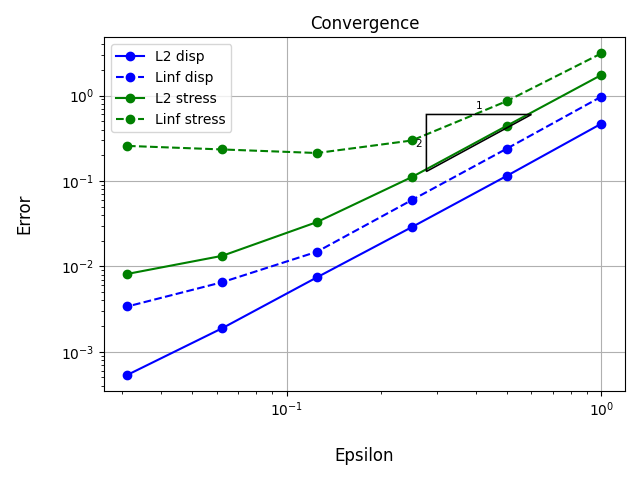
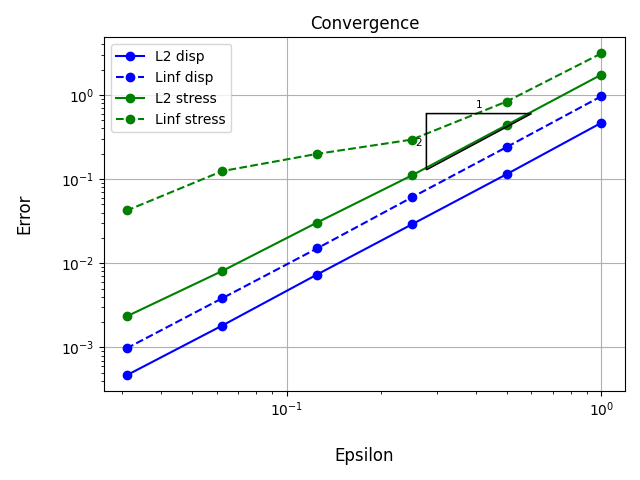
fixed bug in calculation of cross-term for second-order dirichlet

diff --git a/xlb/experimental/thermo_mechanical/solid_stepper.py b/xlb/experimental/thermo_mechanical/solid_stepper.py
@@ -45,11 +45,6 @@ class SolidsStepper(Stepper):
         L = params.L
         dt = params.dt
 
-        self.K = K
-        self.mu = mu
-        self.theta = theta
-        self.T = T
-        self.L = L
 
         # ----------calculate omega------------
         omega_11 = 1.0 / (mu / theta + 0.5)
@@ -104,10 +99,12 @@ class SolidsStepper(Stepper):
 
     @Operator.register_backend(ComputeBackend.WARP)
     def warp_implementation(self, f_1, f_2):  # f_1 carries current population, f_2 carries the previous post_collision population
+        params = SimulationParams()
+        theta = params.theta
         wp.launch(utils.copy_populations, inputs=[f_2, self.temp_f, self.velocity_set.q], dim=f_1.shape[1:])
         self.macroscopic(f_1)  # update bared moments (needed for BC)
         # Collision Stage
-        wp.launch(self.collision.warp_kernel, inputs=[f_1, self.force, self.omega, self.theta], dim=f_1.shape[1:])
+        wp.launch(self.collision.warp_kernel, inputs=[f_1, self.force, self.omega, theta], dim=f_1.shape[1:])
         # Streaming Stage
         wp.launch(self.stream.warp_kernel, inputs=[f_1, f_2], dim=f_1.shape[1:])
         # Apply BC

diff --git a/xlb/experimental/thermo_mechanical/solid_bounceback.py b/xlb/experimental/thermo_mechanical/solid_bounceback.py
@@ -56,14 +56,14 @@ class SolidsDirichlet(Operator):
             m_11 = m_local[2]
             dx_u_x = -0.25 * (m_s / K + m_d / mu)
             dy_u_y = -0.25 * (m_s / K - m_d / mu)
-            cross_dev = -0.25 * (2.0 * m_11 / mu)  # dy_u_x + dx_u_y
+            cross_dev = -m_11 / mu  # dy_u_x + dx_u_y
 
             # bounceback with zero order correction
             f_current[new_direction, i, j, 0] = f_previous[l, i, j, 0] + 6.0 * weight * (x_dir * u_x + y_dir * u_y)
             # add first order correction
-            if wp.abs(x_dir) + wp.abs(y_dir) == 1:
+            if wp.abs(wp.abs(x_dir) + wp.abs(y_dir) - 1.) < 1e-3:
                 f_current[new_direction, i, j, 0] += 6.0 * weight * (q_ij - 0.5) * (wp.abs(x_dir) * dx_u_x + wp.abs(y_dir) * dy_u_y)
-            if wp.abs(x_dir) + wp.abs(y_dir) == 2:
+            if wp.abs(wp.abs(x_dir) + wp.abs(y_dir) - 2.) < 1e-3:
                 f_current[new_direction, i, j, 0] += 6.0 * weight * (q_ij - 0.5) * (dx_u_x + dy_u_y + x_dir * y_dir * (cross_dev))
 
         @wp.func

diff --git a/numerical_experiments/convergence_epsilon/convergence_study.py b/numerical_experiments/convergence_epsilon/convergence_study.py
@@ -104,14 +104,15 @@ if __name__ == "__main__":
     # startup grids
     f_1 = grid.create_field(cardinality=velocity_set.q, dtype=precision_policy.store_precision)
     f_2 = grid.create_field(cardinality=velocity_set.q, dtype=precision_policy.store_precision)
+    f_3 = grid.create_field(cardinality=velocity_set.q, dtype=precision_policy.store_precision)
 
     norms_over_time = list()  # to track error over time
     tolerance = 1e-8
 
     l2, linf = 0, 0
     for i in range(timesteps):
-        stepper(f_1, f_2)
-        f_1, f_2 = f_2, f_1
+        stepper(f_1, f_3)
+        f_1, f_2, f_3 = f_3, f_1, f_2
 
     macroscopics = stepper.get_macroscopics(f_1)
     utils.process_error(macroscopics, expected_macroscopics, i, dx, norms_over_time)

diff --git a/xlb/experimental/thermo_mechanical/solid_utils.py b/xlb/experimental/thermo_mechanical/solid_utils.py
@@ -37,22 +37,6 @@ np.seterr(all="ignore")
 solid_vec = wp.vec(
     9, dtype=PrecisionPolicy.FP32FP32.compute_precision.wp_dtype
 )  # this is the default precision policy; it can be changed by calling set_precision_policy()
-"""K_scaled = 1.
-mu_scaled = 1.
-theta = 1.
-
-def set_K_scaled(K):
-    global K_scaled
-    K_scaled = K
-    print("K: {}".format(K_scaled))
-def set_mu_scaled(mu):
-    global mu_scaled
-    mu_scaled = mu
-    print("Mu: {}".format(mu))
-def set_theta(theta_):
-    global theta
-    theta = theta_
-    print("Theta: {}".format(theta))"""
 
 params = SimulationParams()
 K_scaled = params.K
